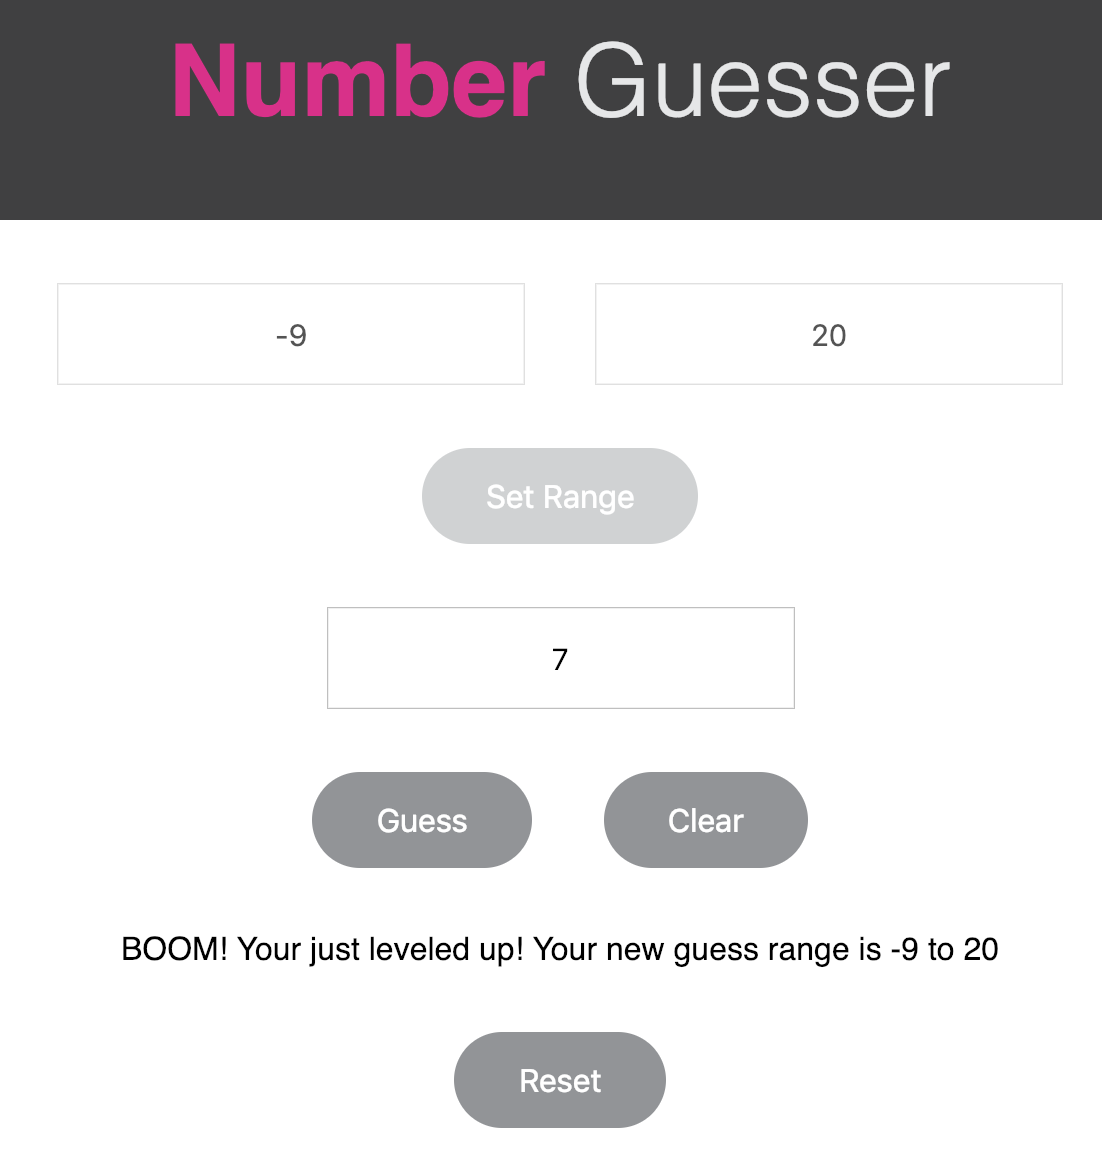
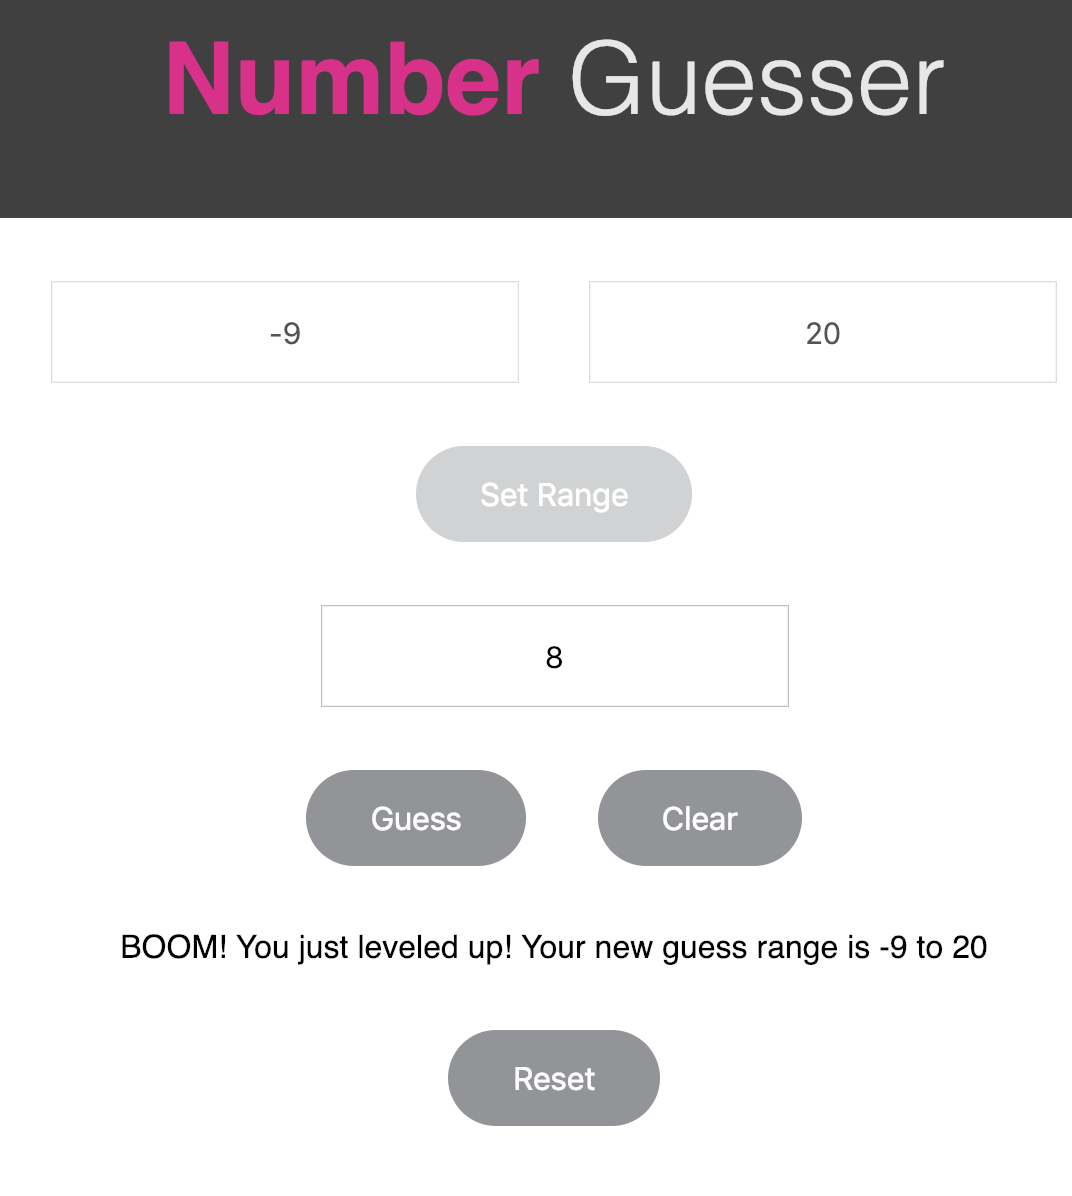
Edit photos and edit display messages

diff --git a/number_guesser.js b/number_guesser.js
@@ -37,7 +37,7 @@ function compareNumbers(guess) {
     return `${text} That is too high`;
   } else {
     levelUp();
-    return `BOOM!  Your just leveled up!  Your new guess range is ${minimum} to ${maximum}`;
+    return `BOOM!  You just leveled up!  Your new guess range is ${minimum} to ${maximum}`;
   };
 }
 

diff --git a/README.md b/README.md
@@ -4,30 +4,30 @@ Number Guesser is a Javascript application that allows players to guess a random
 
 Upon game start, the player can select a minimum and maximum number range to begin.  The minimum and maximum numbers are inclusive so the randomized number generator may choose those as the correct answer.
 
-The user click the Set Range Button and the game begins.  After the range is set, the Range buttons and the range input fields are inaccessible to the player until the player chooses to hit the Reset button to start the game from scratch.
+The player clicks the Set Range Button and the game begins.  After the range is set, the Range buttons and the range input fields are inaccessible to the player until the player chooses to hit the Reset button to start the game from scratch.
 
 ![alt text](/images/select_range.png)
 
-The user selects a number and types it into the guess input field as directed and selects the Guess button.
+The player selects a number and types it into the guess input field as directed and selects the Guess button.
 
 ![alt text](/images/guess.png)
 
-Note:  if the user enters anything other than an integer or a number outside the minimum and maximum range, a pop up alert message will scold them accordingly and the game will be paused until the user inputs an appropriate number.
+Note:  if the player enters anything other than an integer or a number outside the minimum and maximum range, a pop up alert message will scold them accordingly and the game will be paused until the player inputs an appropriate number.
 
-After a player makes a guess, they are given a response that displays their last guess and whether their guess was two high or two low.  The player has an infinite number of chances to guess the correct answer.
+After a player makes a guess, they are given a response that displays their last guess and whether their guess was too high or too low.  The player has an infinite number of chances to guess the correct answer.
 
 ![alt text](/images/feedback.png)
 
-Once the answer is correctly guessed, the user will receive this response and they will be taken to the next level of play.
+Once the answer is correctly guessed, the player will receive this response and they will be taken to the next level of play.
 
 ![alt text](/images/correct_guess.png)
 
 The next level of play increases the guessing number range by 10 digits in both directions.  A new randomized answer is generated and the new level begins again.  
 
-At any time, the user can click the Clear button to clear their last guess.
+At any time, the player can click the Clear button to clear their last guess.
 
 ![alt text](/images/reset_game.png)
 
 When a player wants to restart the game, they can select the Reset button.  The player now has access to the Minimum and Maximum number range fields again and may select a new number range to start from.  
 
-Users can play the game through Github's Hosted Pages by following this link - https://bdiveley.github.io/number_guesser
+Players can play the game through Github's Hosted Pages by following this link - https://bdiveley.github.io/number_guesser
